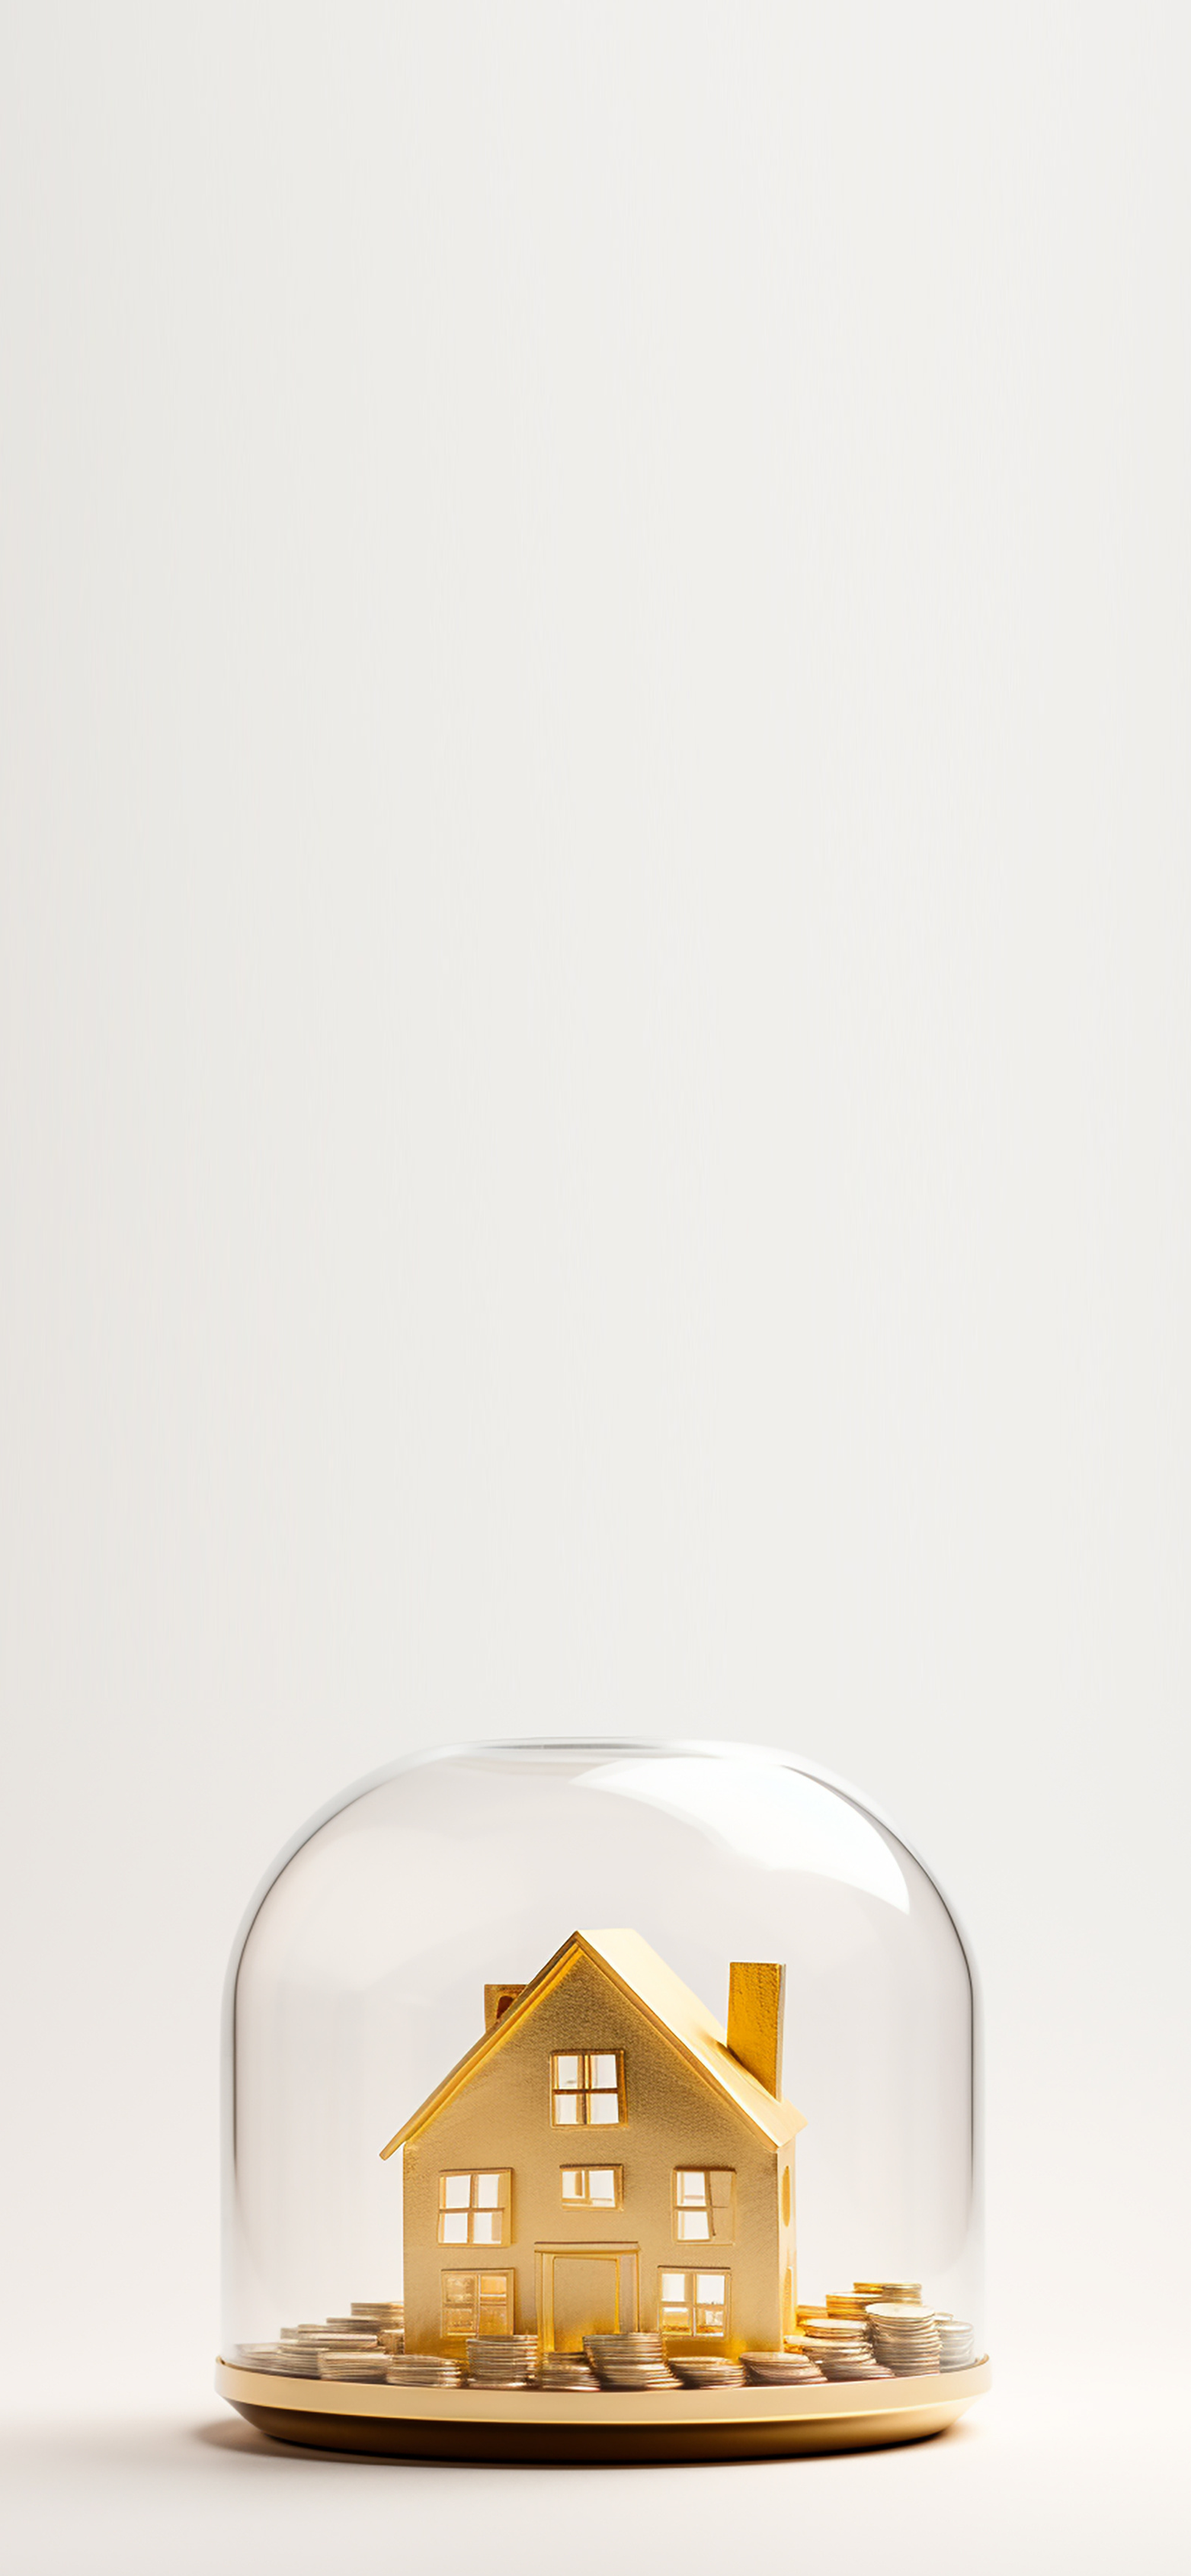
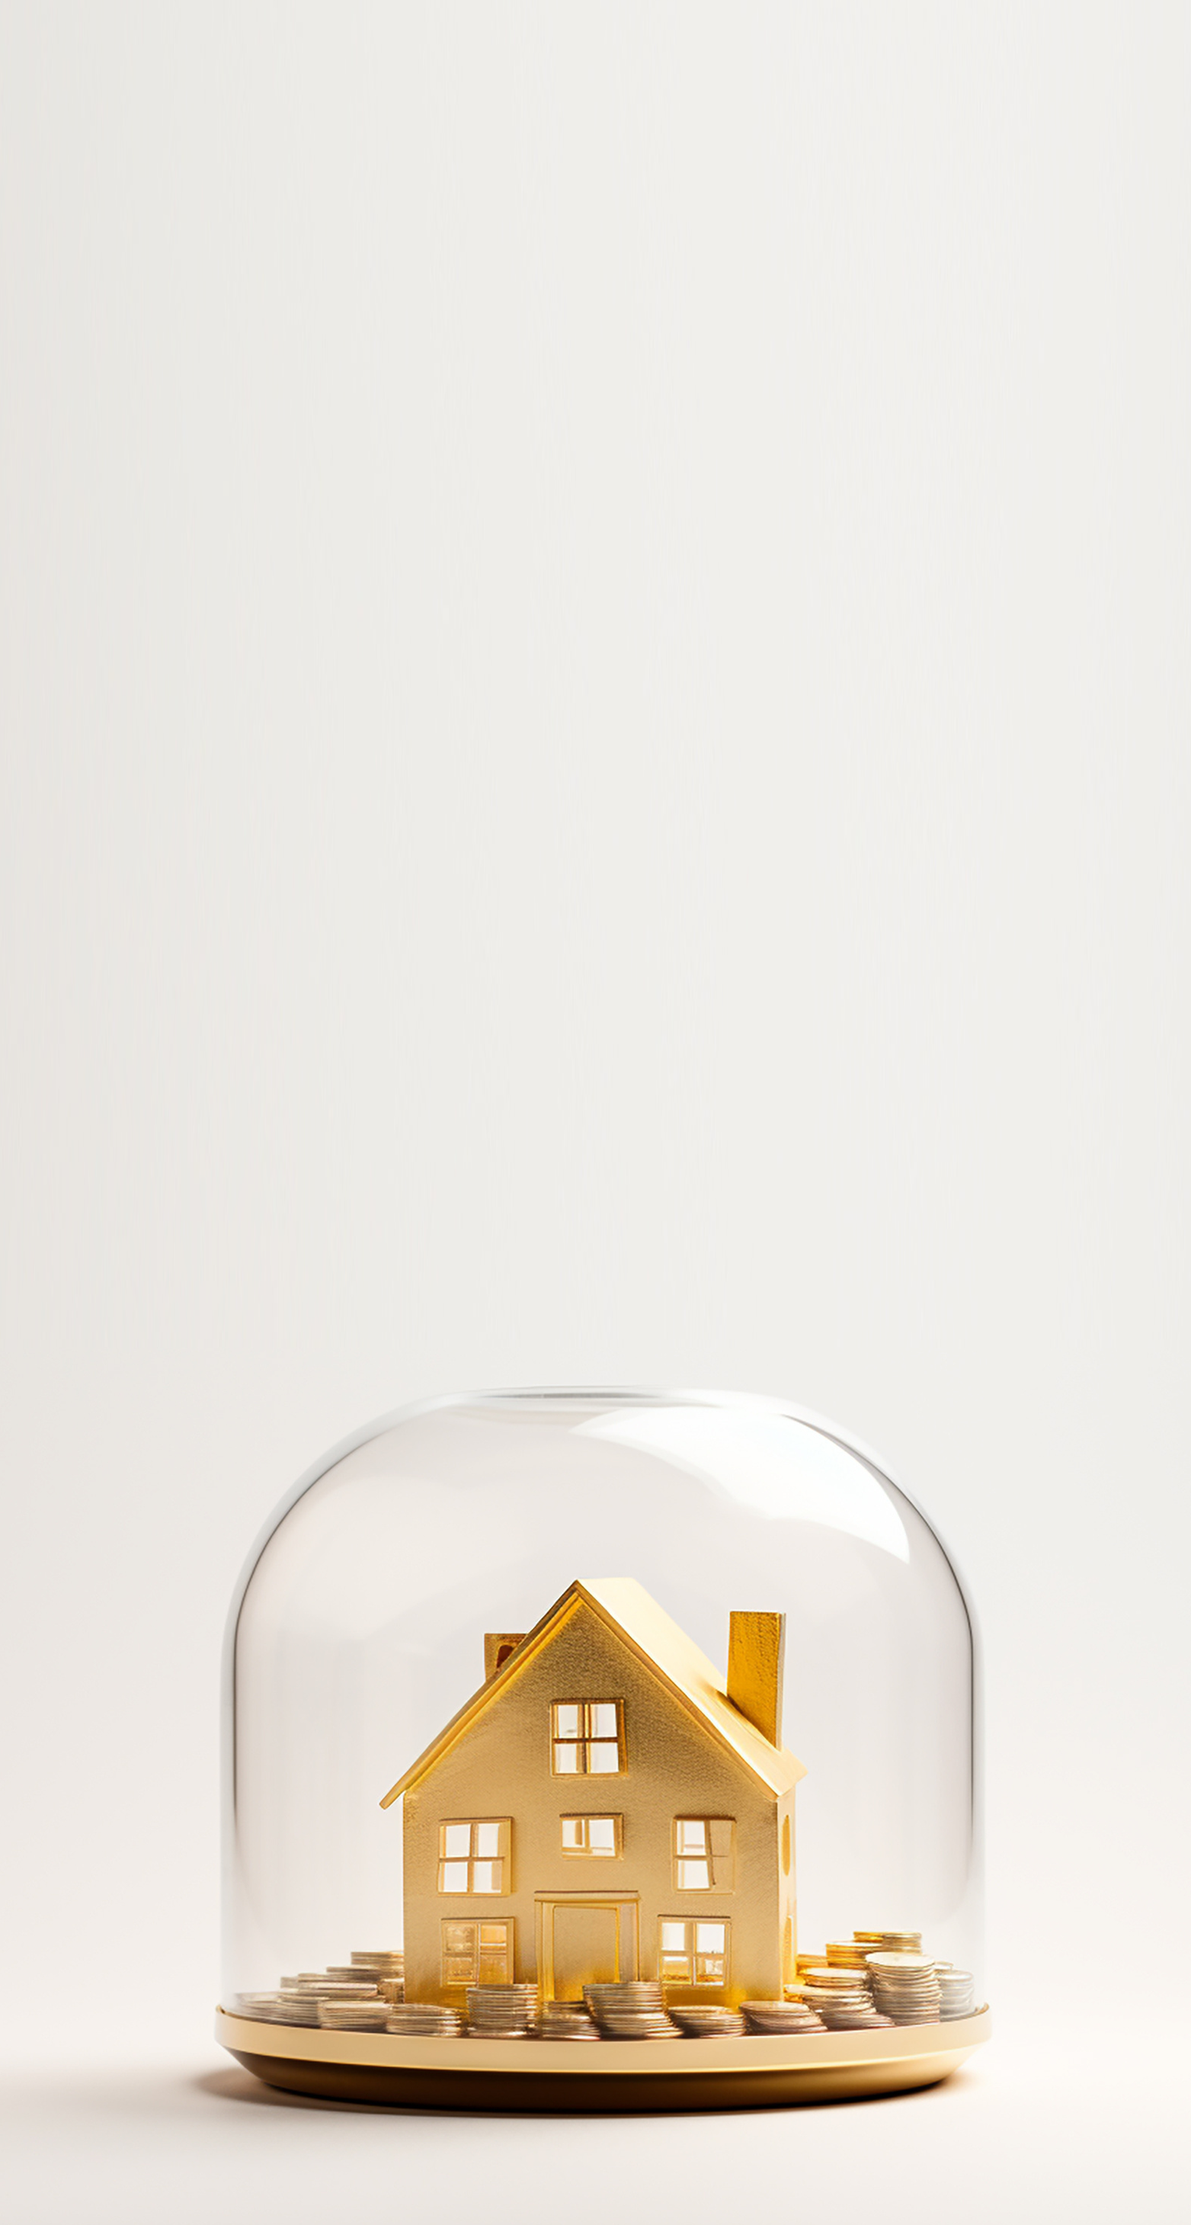
change

diff --git a/src/app/mortgage/Header.module.scss b/src/app/mortgage/Header.module.scss
@@ -45,7 +45,7 @@
     background-size: cover;
 
     @media (min-width: 0px) and (max-width: 1023px) {
-        height:171.2666667vw;
+        height:180.2666667vw;
         background-size: 100% 100%;
         background-image: url(/img/mortgage_header_mobile.png);
         // background-size:contain;
